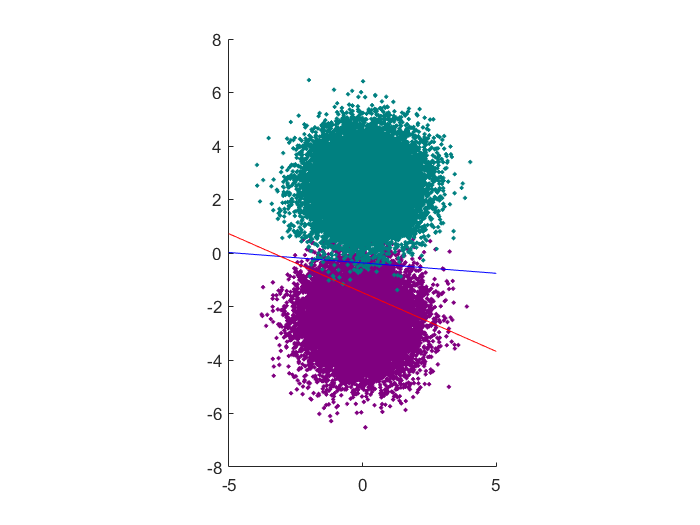
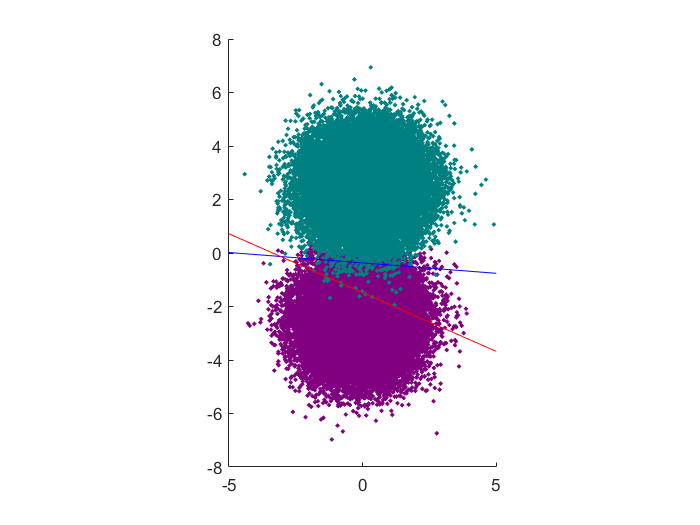
Almost there

Changed region(s): [[0.36, 0.1524, 0.69, 0.8229]]

diff --git a/TestExperr.m b/TestExperr.m
@@ -26,7 +26,7 @@ function TestExperr
     [a, b] = CoreRobust(mXShifted, mYShifted, covX, covY, xyMu, xRho, yRho);
     
     % Testing
-    sampleSize = 20000;
+    sampleSize = 50000;
     xSeq = mvnrnd(mX, covX, sampleSize);
     ySeq = mvnrnd(mY, covY, sampleSize);
     misClassifiedX = 0;

diff --git a/TestCoverr.m b/TestCoverr.m
@@ -24,7 +24,7 @@ function TestCoverr
     [a, b] = Core(mX, mY, covXShifted, covYShifted);
     
     % Testing
-    sampleSize = 20000;
+    sampleSize = 50000;
     xSeq = mvnrnd(mX, covX, sampleSize);
     ySeq = mvnrnd(mY, covY, sampleSize);
     misClassifiedX = 0;
